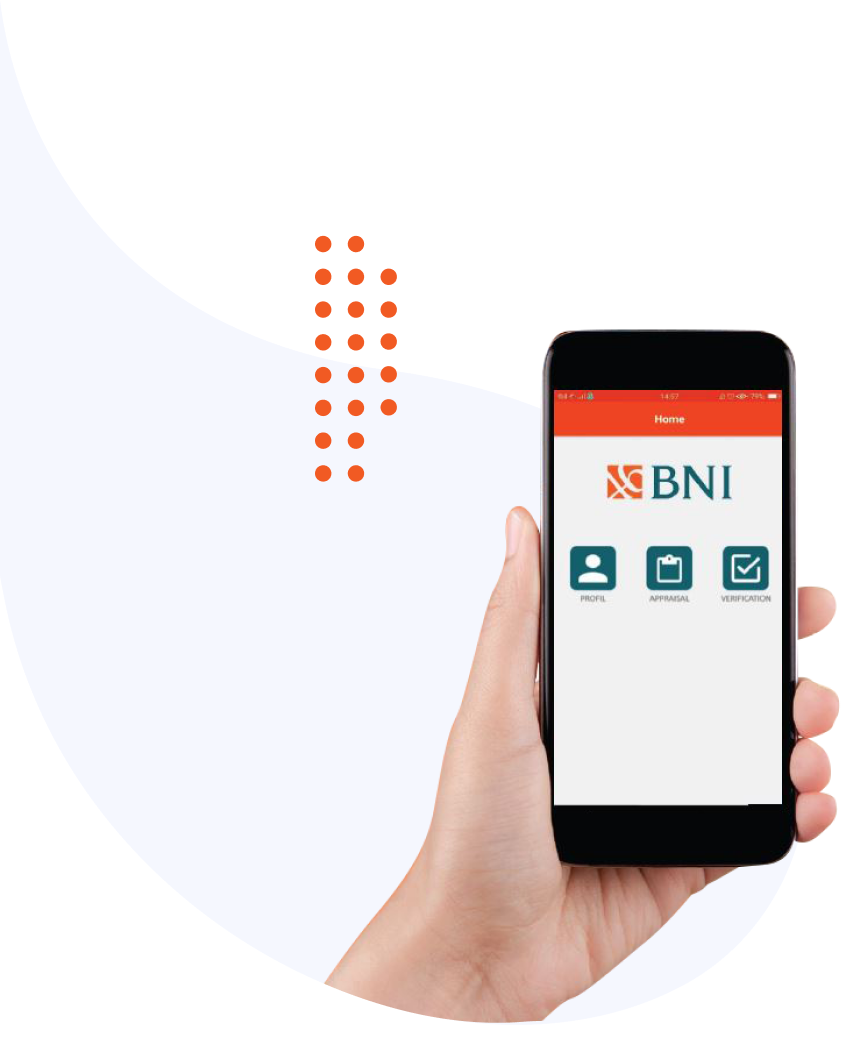
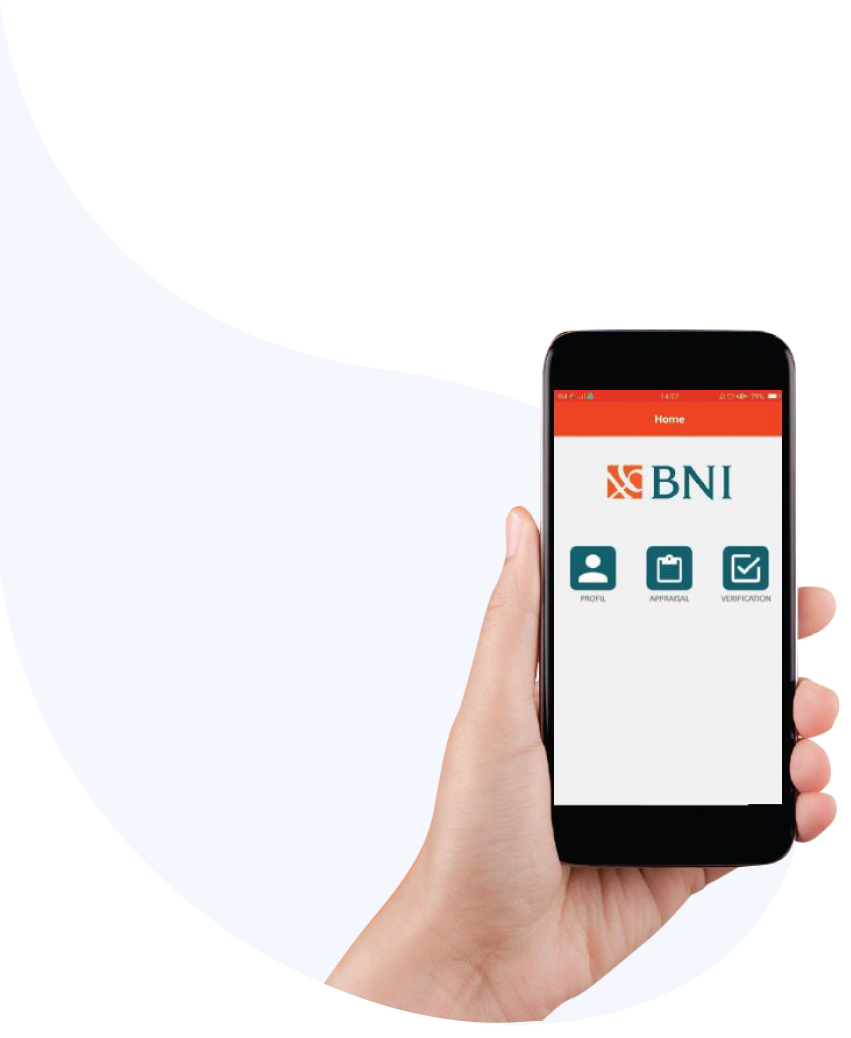
Update bg section.jpg

Changed region(s): [[0.3666, 0.2158, 0.4888, 0.4624]]

diff --git a/index.html b/index.html
@@ -352,7 +352,145 @@
         <div class="container-fluid">
           <div class="row align-items-center mt-5 mt-lg-0">
             <div class="col-lg-5 p-0 d-lg-block d-none">
-              <img src="./assets/img/Group 300.png" alt="" width="100%" />
+              <div class="image-content">
+                <svg
+                  class="dots"
+                  width="55"
+                  height="165"
+                  viewBox="0 0 55 165"
+                  fill="none"
+                  xmlns="http://www.w3.org/2000/svg"
+                >
+                  <circle
+                    cx="5.46154"
+                    cy="5.69005"
+                    r="5.46154"
+                    fill="#F15A23"
+                  />
+                  <circle
+                    cx="27.3072"
+                    cy="5.69005"
+                    r="5.46154"
+                    fill="#F15A23"
+                  />
+                  <circle
+                    cx="5.46154"
+                    cy="27.5358"
+                    r="5.46154"
+                    fill="#F15A23"
+                  />
+                  <circle
+                    cx="27.3072"
+                    cy="27.5358"
+                    r="5.46154"
+                    fill="#F15A23"
+                  />
+                  <circle
+                    cx="49.1539"
+                    cy="27.5358"
+                    r="5.46154"
+                    fill="#F15A23"
+                  />
+                  <circle
+                    cx="5.46154"
+                    cy="49.3815"
+                    r="5.46154"
+                    fill="#F15A23"
+                  />
+                  <circle
+                    cx="27.3072"
+                    cy="49.3815"
+                    r="5.46154"
+                    fill="#F15A23"
+                  />
+                  <circle
+                    cx="49.1539"
+                    cy="49.3834"
+                    r="5.46154"
+                    fill="#F15A23"
+                  />
+                  <circle
+                    cx="49.1539"
+                    cy="70.6901"
+                    r="5.46154"
+                    fill="#F15A23"
+                  />
+                  <circle
+                    cx="49.1539"
+                    cy="92.5358"
+                    r="5.46154"
+                    fill="#F15A23"
+                  />
+                  <circle
+                    cx="49.1539"
+                    cy="114.536"
+                    r="5.46154"
+                    fill="#F15A23"
+                  />
+                  <circle
+                    cx="5.46154"
+                    cy="71.2291"
+                    r="5.46154"
+                    fill="#F15A23"
+                  />
+                  <circle
+                    cx="27.3072"
+                    cy="71.2291"
+                    r="5.46154"
+                    fill="#F15A23"
+                  />
+                  <circle
+                    cx="5.46154"
+                    cy="93.0748"
+                    r="5.46154"
+                    fill="#F15A23"
+                  />
+                  <circle
+                    cx="27.3072"
+                    cy="93.0748"
+                    r="5.46154"
+                    fill="#F15A23"
+                  />
+                  <circle
+                    cx="5.46154"
+                    cy="114.921"
+                    r="5.46154"
+                    fill="#F15A23"
+                  />
+                  <circle
+                    cx="27.3072"
+                    cy="114.921"
+                    r="5.46154"
+                    fill="#F15A23"
+                  />
+                  <circle
+                    cx="5.46154"
+                    cy="136.766"
+                    r="5.46154"
+                    fill="#F15A23"
+                  />
+                  <circle
+                    cx="27.3072"
+                    cy="136.766"
+                    r="5.46154"
+                    fill="#F15A23"
+                  />
+                  <circle
+                    cx="5.46154"
+                    cy="158.614"
+                    r="5.46154"
+                    fill="#F15A23"
+                  />
+                  <circle
+                    cx="27.3072"
+                    cy="158.614"
+                    r="5.46154"
+                    fill="#F15A23"
+                  />
+                </svg>
+
+                <img src="./assets/img/Group 300.png" alt="" width="100%" />
+              </div>
             </div>
             <div class="col-lg-6 mt-lg-0 mt-5">
               <div class="content">

diff --git a/assets/css/main.css b/assets/css/main.css
@@ -360,9 +360,23 @@ body {
           box-shadow: 19px 37px 0 0 #f5f7fe;
 }
 
+#digital-lounge {
+  position: relative;
+}
+
 #digital-lounge .heading-section-2 h2 {
   margin-bottom: 30px;
   font-size: 36px;
+}
+
+#digital-lounge .image-content {
+  position: relative;
+}
+
+#digital-lounge .image-content .dots {
+  position: absolute;
+  top: 120px;
+  left: 160px;
 }
 
 #digital-lounge .content p {

diff --git a/assets/css/main.scss b/assets/css/main.scss
@@ -370,10 +370,21 @@ body {
 }
 
 #digital-lounge {
+  position: relative;
   .heading-section-2 {
     h2 {
       margin-bottom: 30px;
       font-size: 36px;
+    }
+  }
+
+  .image-content {
+    position: relative;
+
+    .dots {
+      position: absolute;
+      top: 120px;
+      left: 160px;
     }
   }
 
